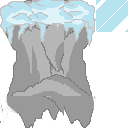
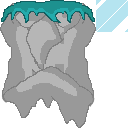
add manu engine

diff --git a/src/main/Game.java b/src/main/Game.java
@@ -63,7 +63,7 @@ public class Game extends Canvas implements Runnable {
         ImageLoader imageLoader = new ImageLoader();
         level = imageLoader.load("/assets/images/dungeon/dungeon.png");
         village = imageLoader.load("/assets/images/villages/map.png");
-        background = imageLoader.load("/assets/images/dungeon/bg4.jpg");
+        background = imageLoader.load("/assets/images/dungeon/bg3.jpg");
         handler = new Handler();
 
         camera = new Camera(0, 0);
@@ -153,7 +153,6 @@ public class Game extends Canvas implements Runnable {
         if (state == State.MAIN_MENU) {
             mainmenu.render(g);
         } else if (state == State.GAME_PLAY) {
-            
             g.drawImage(background, (int)0, (int)0, null);       
             g2d.translate(camera.getX(), camera.getY());
             handler.render(g);
@@ -278,7 +277,7 @@ public class Game extends Canvas implements Runnable {
             @Override
             public void run() {
                 try {
-                    Thread.sleep(3500);
+                    Thread.sleep(3100);
                 } catch (InterruptedException ex) {
                     Logger.getLogger(Game.class.getName()).log(Level.SEVERE, null, ex);
                 }

diff --git a/src/core/Texture.java b/src/core/Texture.java
@@ -23,7 +23,7 @@ public class Texture {
         ImageLoader loader = new ImageLoader();
         try {
             playerSheet = loader.load("/assets/images/character/female.png");
-            groundSheet = loader.load("/assets/images/dungeon/Ground-sheet-4.png");
+            groundSheet = loader.load("/assets/images/dungeon/Ground-sheet-3.png");
             playerAttackSheet = loader.load("/assets/images/character/female-attack.png");
             monsterSheet = loader.load("/assets/images/monster/terrex.png");
             villageSheet = loader.load("/assets/images/villages/base-terain.png");
